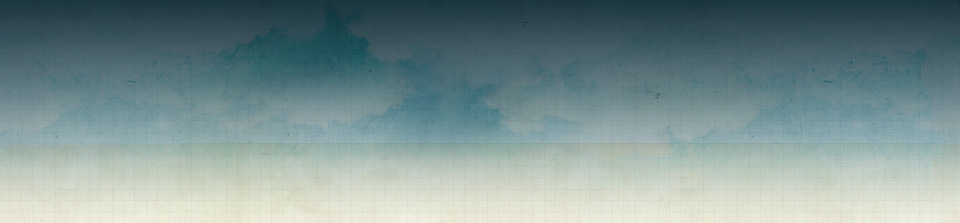
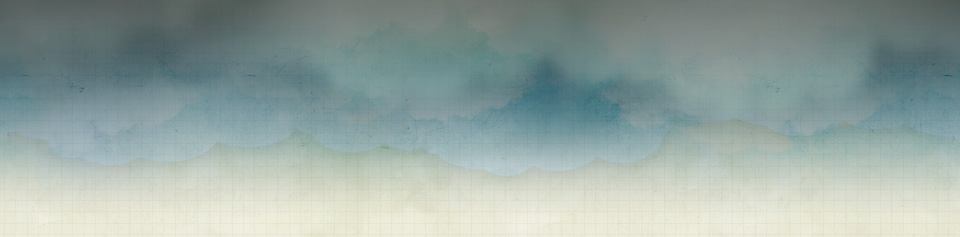
styling changes to background images

diff --git a/media/styles/main.css b/media/styles/main.css
@@ -19,17 +19,22 @@ body{
   	font-family: Helvetica Neue, Helvetica, Arial, sans-serif;
 }
 
+body.home #brandingbar, body.blog #brandingbar, body.people #brandingbar, body.projects #brandingbar, body.events #brandingbar, body.about #brandingbar, body.contact #brandingbar { border-bottom:1px solid #184259;}
+
 blockquote p { font-size: 130%; line-height: 22px; padding-left: 50px; font-style: oblique; color: #919090;}
 
 
 div#headerWrapper{ background: url(../images/bg_repeat2.jpg) top center repeat-x; }
 div#pageMain{ background: url(../images/header_bg4.jpg) top center no-repeat; width: 960px; margin: 0 auto; }
+div#headerClouds { background: url(../images/header_topClouds.png) 300% 0 repeat-x; position: absolute; width: 100%; height: 120px;}
 
-div#header{ height: 223px; }
+div#pageNav { position: relative;}
+
+div#header{ height: 214px; }
 div#nav li { float: left;}
 
-h1{  width: 440px; height: 90px; float: left; padding-top: 30px;}
-h1 a{ background: url(../images/logo.png) bottom left no-repeat; width: 440px; height: 90px; text-indent: -9999em; display: block;}
+h1{  width: 440px; height: 90px; float: left; padding-top: 35px;}
+h1 a{ background: url(../images/logo.png) bottom left no-repeat; width: 440px; height: 90px; text-indent: -9999em; display: block; position: relative;}
 
 div#featureBox{ margin-bottom: 50px; background: url(../images/featureBox_bg.png) top left no-repeat; height: 274px; padding: 0 15px;}
 div#featureBox h2{ margin-bottom: 20px; background: url(../images/feature_header.png) top left no-repeat; width: 323px; height: 83px; text-indent: -9999em; float: left;}
@@ -48,12 +53,13 @@ span#alertContent, span.alertHolder { float: left; margin-right: 10px;}
 span.alertHolder_close { text-align: right; display: block;}
 
 div#nav{ background: url(../images/nav_bg.png) bottom center no-repeat; width: 954px; height: 51px; float: right; margin-top: 40px;}
-div#pageNav li{ float: left; margin-right: 15px;}
-div#pageNav a { color: #fff;}
+div#pageNav li{ float: left; margin-left: 15px; line-height: 15px; padding-left: 15px;}
+div#pageNav a { color: #fff; text-decoration: none;}
 div#pageNav{ padding-bottom: 15px; height: 35px; padding-left: 5px; font-size:110%; float: right;}
 div#pageNav ul { float: right; padding-top: 10px;}
+li.second_pageNav { border-left: 1px solid #fff; }
 input#siteSearch_box, div#searchBox button { float: right;}
-div#searchBox { margin-top: 70px;}
+div#searchBox { margin-top: 110px;}
 input#siteSearch_box { margin-right: 15px; font-size: 85%; width: 170px; background: rgba(254,254,254,0.5); }
 div#searchBox button { margin-right: 5px;}
 
@@ -69,32 +75,32 @@ body.events div#pageNav{ background: url(../images/banner_events.png) bottom cen
 
 div#ltColumn{ width: 700px; float: left; margin-right: 15px;}
 div#rtColumn{ float: left; width: 245px;}
-div#mainContent {background: url(../images/rtColumn_bg.png) top right repeat-y;  width: 960px; padding-top: 50px;}
+div#mainContent {background: url(../images/rtColumn_bg.png) top right repeat-y;  width: 960px; padding-top: 55px;}
 
 div#rtColumn div.module{ margin-left: 25px; }
 div.module{ padding-left: 5px; margin-bottom: 40px;}
 div#nav li a { height: 24px; text-indent: -9999em; display: block; margin-left: 40px; margin-top:15px;}
 
 div#nav li#nav_blog a { width: 73px; background: url(../images/nav_blog.png) left top no-repeat; margin-left: 20px;}
-div#nav li#nav_blog a:hover, body.blog li#nav_blog a { width: 73px; background: url(../images/nav_blog.png) left bottom no-repeat;}
+div#nav li#nav_blog a:hover, body.blog div#nav li#nav_blog a { width: 73px; background: url(../images/nav_blog.png) left -24px no-repeat;}
 
 li#nav_people a { width: 92px; background: url(../images/nav_people.png) left top no-repeat;}
-li#nav_people a:hover, body.people li#nav_people a{ width: 92px; background: url(../images/nav_people.png) left bottom no-repeat;}
+li#nav_people a:hover, body.people li#nav_people a{ width: 92px; background: url(../images/nav_people.png) left -24px no-repeat;}
 
 li#nav_projects a { width: 113px; background: url(../images/nav_projects.png) left top no-repeat;}
-li#nav_projects a:hover, body.projects li#nav_projects a{ width: 113px; background: url(../images/nav_projects.png) left bottom no-repeat;}
+li#nav_projects a:hover, body.projects li#nav_projects a{ width: 113px; background: url(../images/nav_projects.png) left -24px no-repeat;}
 
 li#nav_events a { width: 94px; background: url(../images/nav_events.png) left top no-repeat;}
-li#nav_events a:hover, body.events li#nav_events a{ width: 94px; background: url(../images/nav_events.png) left bottom no-repeat;}
+li#nav_events a:hover, body.events li#nav_events a{ width: 94px; background: url(../images/nav_events.png) left -24px no-repeat;}
 
 li#nav_wiki a { width: 88px; background: url(../images/nav_wiki.png) left top no-repeat;}
-li#nav_wiki a:hover{ width: 88px; background: url(../images/nav_wiki.png) left bottom no-repeat;}
+li#nav_wiki a:hover{ width: 88px; background: url(../images/nav_wiki.png) left -24px no-repeat;}
 
 li#nav_about a { width: 88px; background: url(../images/nav_about.png) left top no-repeat;}
-li#nav_about a:hover, body.about li#nav_about a { width: 88px; background: url(../images/nav_about.png) left bottom no-repeat;}
+li#nav_about a:hover, body.about li#nav_about a { width: 88px; background: url(../images/nav_about.png) left -24px no-repeat;}
 
 li#nav_contact a { width: 108px; background: url(../images/nav_contact.png) left top no-repeat;}
-li#nav_contact a:hover, body.contact li#nav_contact a { width: 108px; background: url(../images/nav_contact.png) left bottom no-repeat;}
+li#nav_contact a:hover, body.contact li#nav_contact a { width: 108px; background: url(../images/nav_contact.png) left -24px no-repeat;}
 
 h2{ color: #1f1313; font-size: 210%;  padding-left: 5px; line-height: 27px;}
 h2.post{ background: url(../images/icon_post.png) top left no-repeat; padding: 10px 0 1px 35px; margin-left: 5px;}
@@ -174,7 +180,7 @@ div#ltColumn form#joinProjectForm label { width: 120px;}
 
 div#communityTimelineHeader { background: url(../images/line_space2.png) left top no-repeat; padding-top:50px;}
 
-input, textarea { background: #fff; border: 1px solid #c4bdbd; -moz-border-radius: 3px; -webkit-border-radius: 3px; padding: 5px 5px 6px; margin-bottom: 10px;}
+input, textarea { background: #fff; border: 1px solid #c4bdbd; -moz-border-radius: 3px; -webkit-border-radius: 3px; padding: 5px 5px 6px; margin-bottom: 10px; color: #6C6969;}
 input#id_location { float: left; margin-right: 10px;}
 div#rtColumn label{ display: block;}
 div#ltColumn form label{ line-height: 15px;}
@@ -572,7 +578,7 @@ dd.badge {margin-top: 5px; }
 div#fancy_tags_widget p.tip { margin-left: 200px;}
 
 /*buttons*/
-button, a.interestedBtn, a.learnBtn, a#joinBtn, a#contactBtn, a#projectCreate { border: none; text-indent: -9999em; display: block; margin-top: 10px; height: 28px;}
+button, a.interestedBtn, a.learnBtn, a#joinBtn, a#contactBtn, a#projectCreate { border: none; text-indent: -9999em; display: block; margin-top: 10px; height: 28px; cursor: pointer;}
 button.searchBtn { background: url(../images/btn_search.png) left top no-repeat; width: 113px; margin-top: 0px;}
 form#searchForm ul#peopleSearch button.searchBtn { background: url(../images/btn_search.png) left 20px no-repeat; width: 113px; margin-top: 0px; padding-bottom: 48px;}
 
@@ -592,7 +598,7 @@ a#joinBtn { background: url(../images/btn_joinus.png) right bottom no-repeat; wi
 a#contactBtn { background: url(../images/btn_contact.png) right bottom no-repeat; width: 113px; margin-top: 20px;}
 button.joinBtn { background: url(../images/btn_join.png) right bottom no-repeat; width: 113px; margin-top: 20px;}
 button#voteBtn { background: url(../images/btn_vote.png) right bottom no-repeat; width: 113px; margin-top: 20px; }
-button.siteSearchBtn { background: url(../images/btn_siteSearch.png) right bottom no-repeat; width: 94px; height: 25px; margin-top: 1px;}
+button.siteSearchBtn { background: url(../images/btn_siteSearch.png) right bottom no-repeat; width: 94px; height: 28px; margin-top: -1px;}
 
 form#joinProjectForm button.signupBtn { margin-left: 120px;}
 button.signupBtn { background: url(../images/btn_joinus_sm.png) right bottom no-repeat; width: 113px; margin-left: 200px; margin-top: 20px;}

diff --git a/templates/base.html b/templates/base.html
@@ -23,6 +23,7 @@
     <body class="{% block bodyclass %}home{% endblock %}">
           <!--[if lt IE 7]>  <div style='border: 1px solid #F7941D; background: #FEEFDA; text-align: center; clear: both; height: 75px; position: relative;'>    <div style='position: absolute; right: 3px; top: 3px; font-family: courier new; font-weight: bold;'><a href='#' onclick='javascript:this.parentNode.parentNode.style.display="none"; return false;'><img src='http://www.ie6nomore.com/files/theme/ie6nomore-cornerx.jpg' style='border: none;' alt='Close this notice'/></a></div>    <div style='width: 640px; margin: 0 auto; text-align: left; padding: 0; overflow: hidden; color: black;'>      <div style='width: 75px; float: left;'><img src='http://www.ie6nomore.com/files/theme/ie6nomore-warning.jpg' alt='Warning!'/></div>      <div style='width: 275px; float: left; font-family: Arial, sans-serif;'>        <div style='font-size: 14px; font-weight: bold; margin-top: 12px;'>You are using an outdated browser</div>        <div style='font-size: 12px; margin-top: 6px; line-height: 12px;'>For a better experience using this site, please upgrade to a modern web browser.</div>      </div>      <div style='width: 75px; float: left;'><a href='http://www.firefox.com' target='_blank'><img src='http://www.ie6nomore.com/files/theme/ie6nomore-firefox.jpg' style='border: none;' alt='Get Firefox 3.5'/></a></div>      <div style='width: 75px; float: left;'><a href='http://www.browserforthebetter.com/download.html' target='_blank'><img src='http://www.ie6nomore.com/files/theme/ie6nomore-ie8.jpg' style='border: none;' alt='Get Internet Explorer 8'/></a></div>      <div style='width: 73px; float: left;'><a href='http://www.apple.com/safari/download/' target='_blank'><img src='http://www.ie6nomore.com/files/theme/ie6nomore-safari.jpg' style='border: none;' alt='Get Safari 4'/></a></div>      <div style='float: left;'><a href='http://www.google.com/chrome' target='_blank'><img src='http://www.ie6nomore.com/files/theme/ie6nomore-chrome.jpg' style='border: none;' alt='Get Google Chrome'/></a></div>    </div>  </div>  <![endif]-->
         <div id="headerWrapper">
+            <div id="headerClouds"></div>
             <div id="pageMain">
                 <div id="header">
                     <h1><a href="/" rel="home"><big>Sunlight Labs</big></a></h1>
@@ -30,17 +31,17 @@
                         <ul>
                             {% if user.is_authenticated %}
                             <li>Hi, <a href="{% url edit_profile %}">{% display_name user %}</a>.</li>
-                            <li><a href="{% url openid-logout %}">Logout?</a></li>
+                            <li class="second_pageNav"><a href="{% url openid-logout %}">Logout?</a></li>
                             {% if user.is_staff %}
                             <li><a href="/admin/">Admin</a></li>
                             {% endif %}
                             {% else %}
                             <li><a href="{% url openid-register %}">Join Us</a></li>
-                            <li><a href="{% url openid-login %}">Sign In</a></li>
+                            <li class="second_pageNav"><a href="{% url openid-login %}">Sign In</a></li>
                             {% endif %}
                         </ul>
                         <div id="searchBox">
-                            <form method="GET" action="/search/">
+                            <form id="siteSearch" method="GET" action="/search/">
                             <button class="siteSearchBtn" type="submit">
                                 <span>Search</span>
                             </button>
